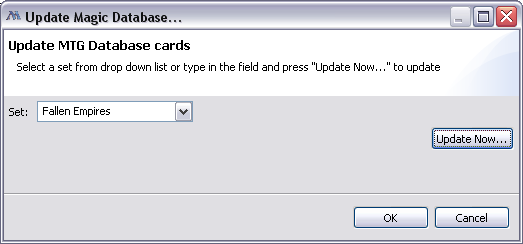
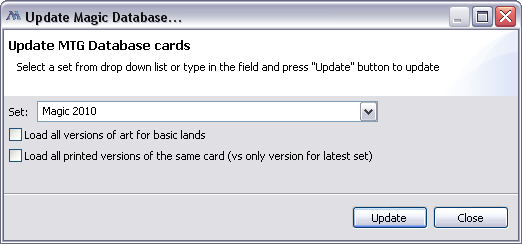
- updated screenshots and help items

diff --git a/com.reflexit.magiccards.help/html/tasks/updatingdb.html b/com.reflexit.magiccards.help/html/tasks/updatingdb.html
@@ -12,9 +12,15 @@ By default card database contains only subset of all cards (one of each for the 
 If you want to load other cards you can run an update query which will load cards from Gatherer database.
 <p/>
 In order to do this go to "Help->Update Magic Card Database...". 
-If you want latest cards use "Standard" as a Set.
-If you want different sets, you can change set name in pull down menu. If you don't see you set there
-just type it in the box. You have to press "Update Now..." button to do an actual update. 
+<p/>
+<p/>
+To update from a particular set select it from the drop down list and click "Update" button.<br/>
+To update for pre-release set type a name in the combo box and press "Update".<br/>
+To update for latest "released" cards select Standard and press "Update". <br/>
+<p/>
+<li> Load all versions of art for basic land - Check this option if you want to load all 4 versions of each basic land in a set, otherwise only one would be loaded
+<li> Load all printed versions of the same card - For each card in selected set all other printed versions for previous sets would be loaded (same language). 
+For example if set has a card "Air Elemental" all of versions of this card would be loaded, so you will see few of them in your database after update.
 <p/>
 <img src="../screenshots/dialogs/updatedb.png" alt="update db dialog"/> 
 </body>

diff --git a/com.reflexit.magiccards.help/html/reference/preferences.html b/com.reflexit.magiccards.help/html/reference/preferences.html
@@ -45,13 +45,7 @@ To unhide the column do opposite (if column is hiding between two other columns 
 <p/>
 See also <a href="views.html#columns">list of columns</a>.
 <h2><a name="update"/>Update Magic Database</h2>
-This page contains preferences for gatherer website link (do not change it unless it has changed for some reason).
-Tool can only parse data from this website, so changing it to some other ones won't work either.
-<p/>
-To update from a particular set select it from the drop down list and click "Update" button.<br/>
-To update for pre-release set type a name in the combo box and press "Update".<br/>
-To update for latest "released" cards select Standard and press "Update". <br/>
-Update to "Standard" format cards also available from Help-&gt;Update Magic Cards DB from the main menu.<br/>
- 
+This pages allows to update your local database from gatherer web site.
+See <a href="../tasks/updatingdb.html">Updating Database</a>. 
 </body>
 </html>

diff --git a/com.reflexit.magiccards.help/html/tasks/creatingdeck.html b/com.reflexit.magiccards.help/html/tasks/creatingdeck.html
@@ -51,7 +51,7 @@ is typed or press Enter to cycle through search results.
 <li>If you have filter by sets enabled and card is not found, it may be because by default database contains only latest print of the same
 card, if you want exact set for you card you need to update database with this set. See <a href="../tasks/updatingdb.html">Updating database</a>.
 <li> 
-When can is found press "+" button (Or select Add to Active Deck from context menu Or Drag a card to your deck). 
+When card is found press "+" button (or select "Add to Active Deck" from context menu or Drag a card to your deck). 
 Card will be added to your deck.
 </li>
 <li>

diff --git a/com.reflexit.magiccards.help/html/reference/views.html b/com.reflexit.magiccards.help/html/reference/views.html
@@ -22,7 +22,6 @@ MTG Database View specific context menu actions:
 <li>Add to Active Deck/Collection (hotkey + or =) - menu to move card to active collection (or deck). 
     Active collection is the collection that was active last time</li>
 <li>Add to - add card to selected deck/collection. Collection must be open to show up in the menu.</li>
-<li>Add to Default Collection (hotkey Insert) - add card to "main" collection (action is not visible in the menu)</li>
 <p/>
 <p>
 <img src="../screenshots/views/mtg_database.png" alt="mtg database view image"/>
